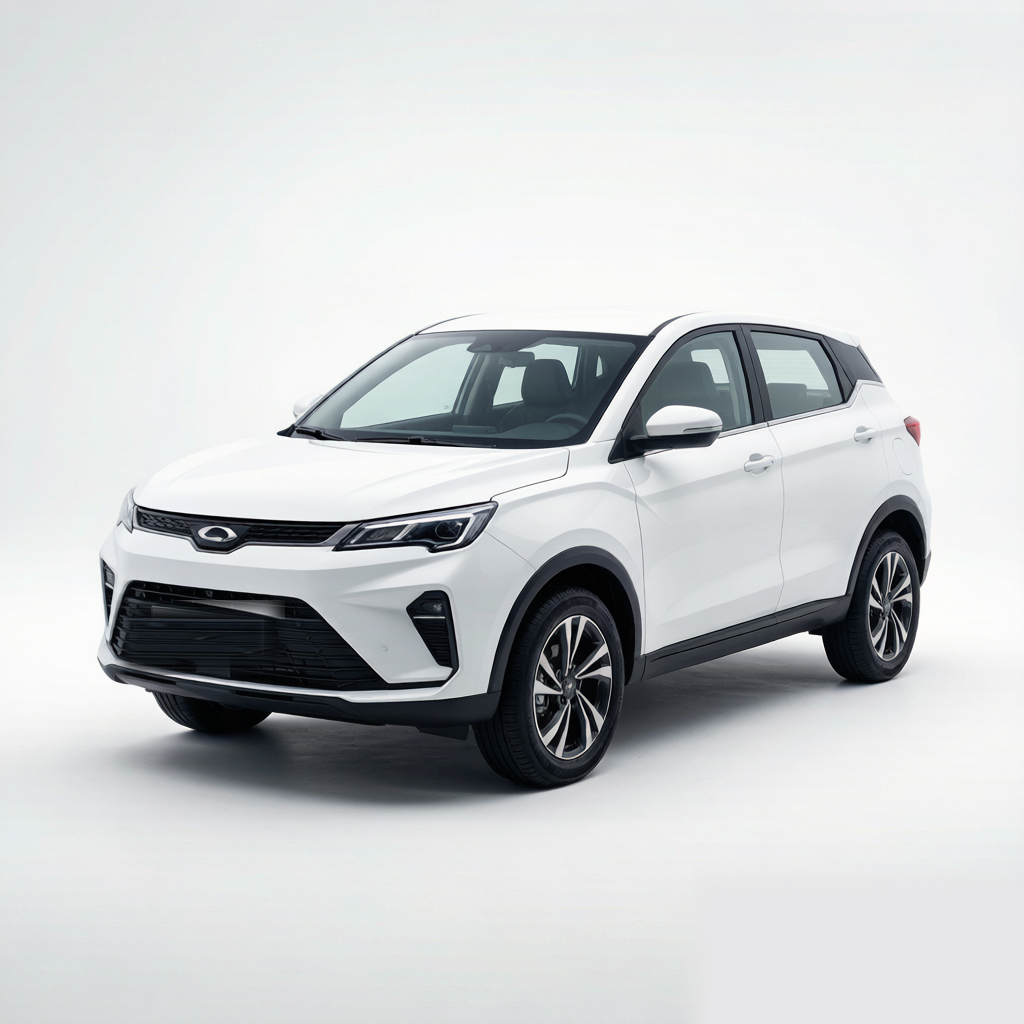
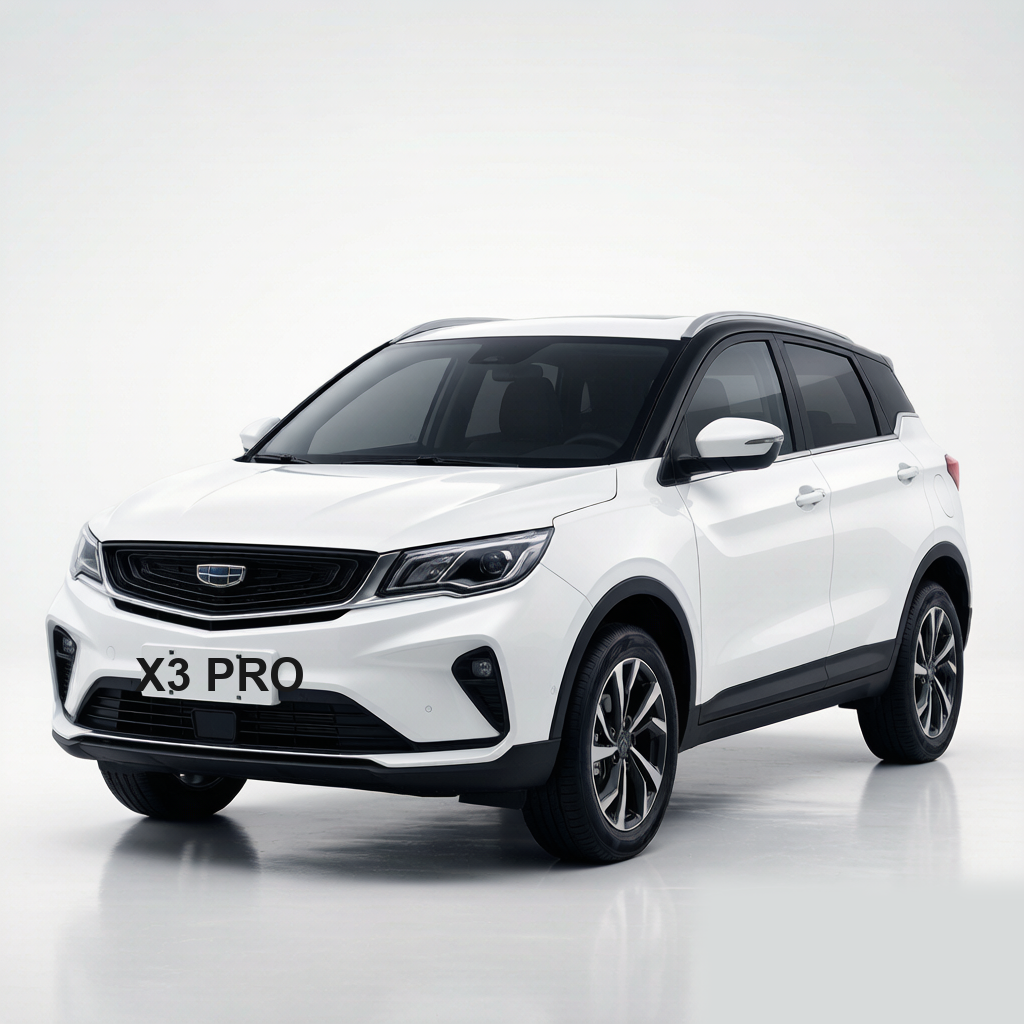
Regenerate Geely X3 PRO image with clear X3 PRO plate text

diff --git a/app/page.js b/app/page.js
@@ -265,7 +265,7 @@ export default function Home() {
             <div className="car-card fade-in">
               <div className="car-card-image">
                 <span className="car-badge">SUV</span>
-                <img src="/images/geely-livan-x3-pro.png?v=4" alt="Geely Livan X3 Pro 2026" />
+                <img src="/images/geely-livan-x3-pro.png?v=5" alt="Geely Livan X3 Pro 2026" />
               </div>
               <div className="car-card-body">
                 <span className="brand">Geely</span>
